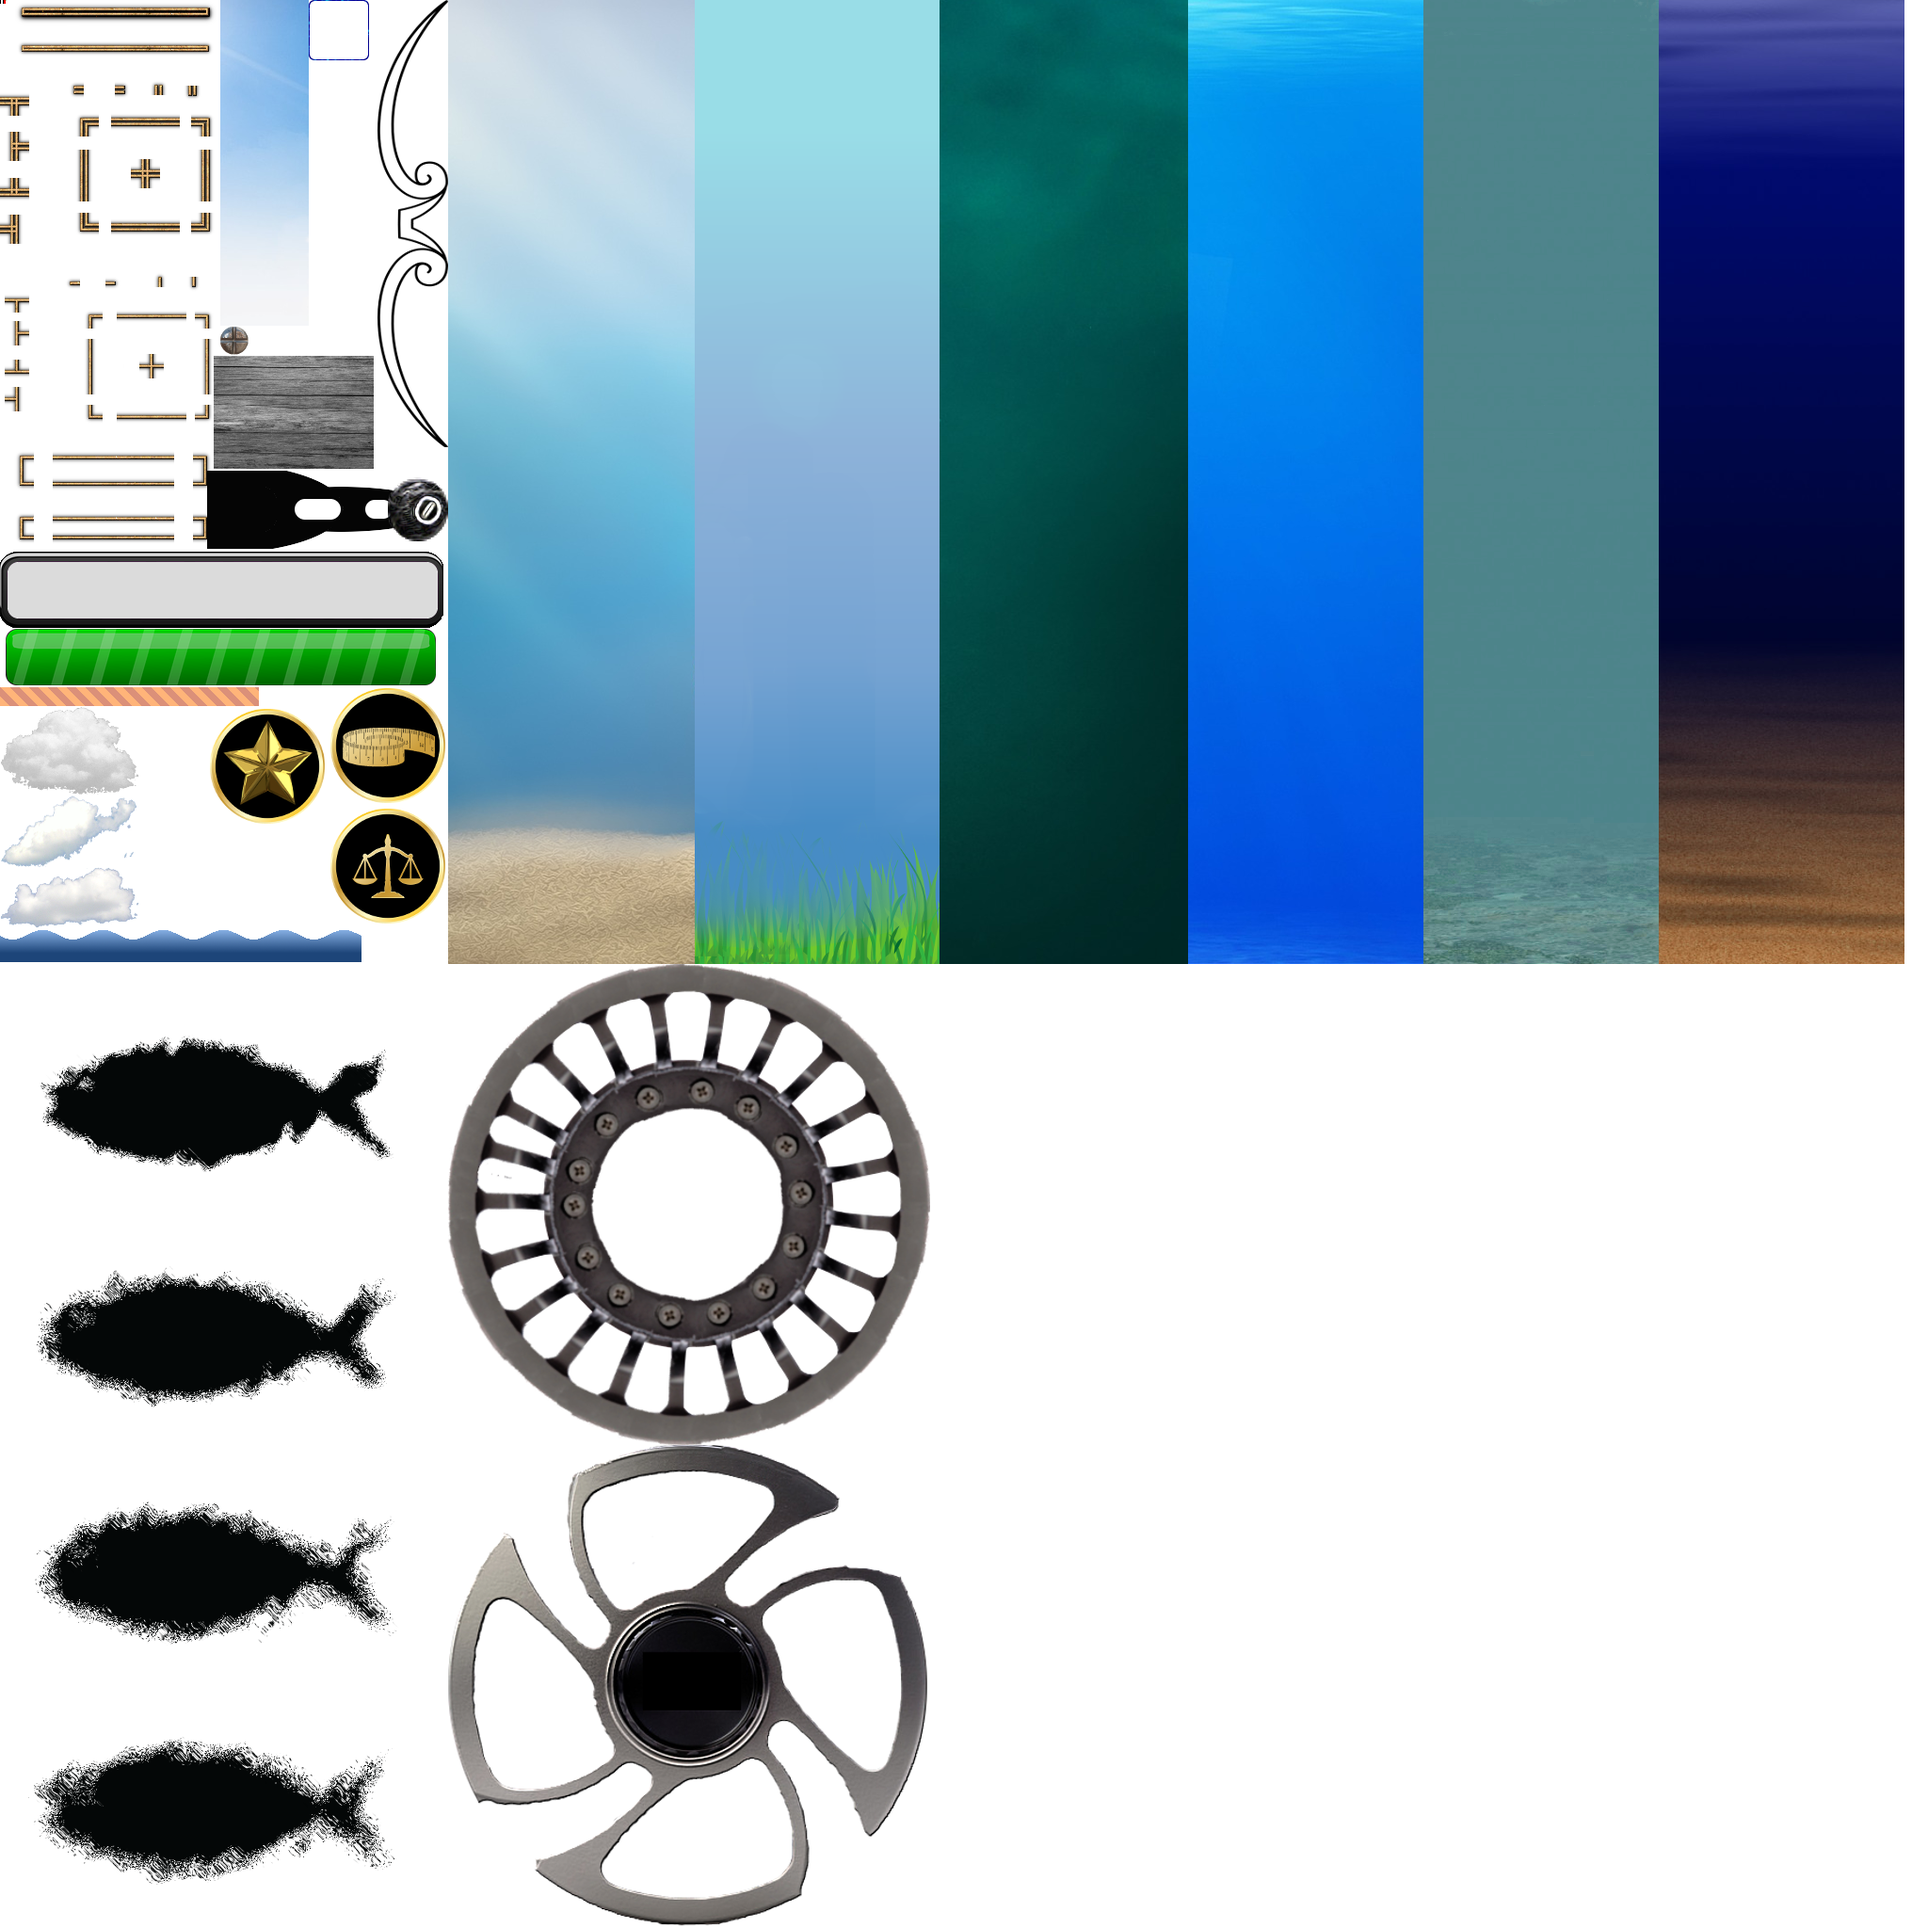
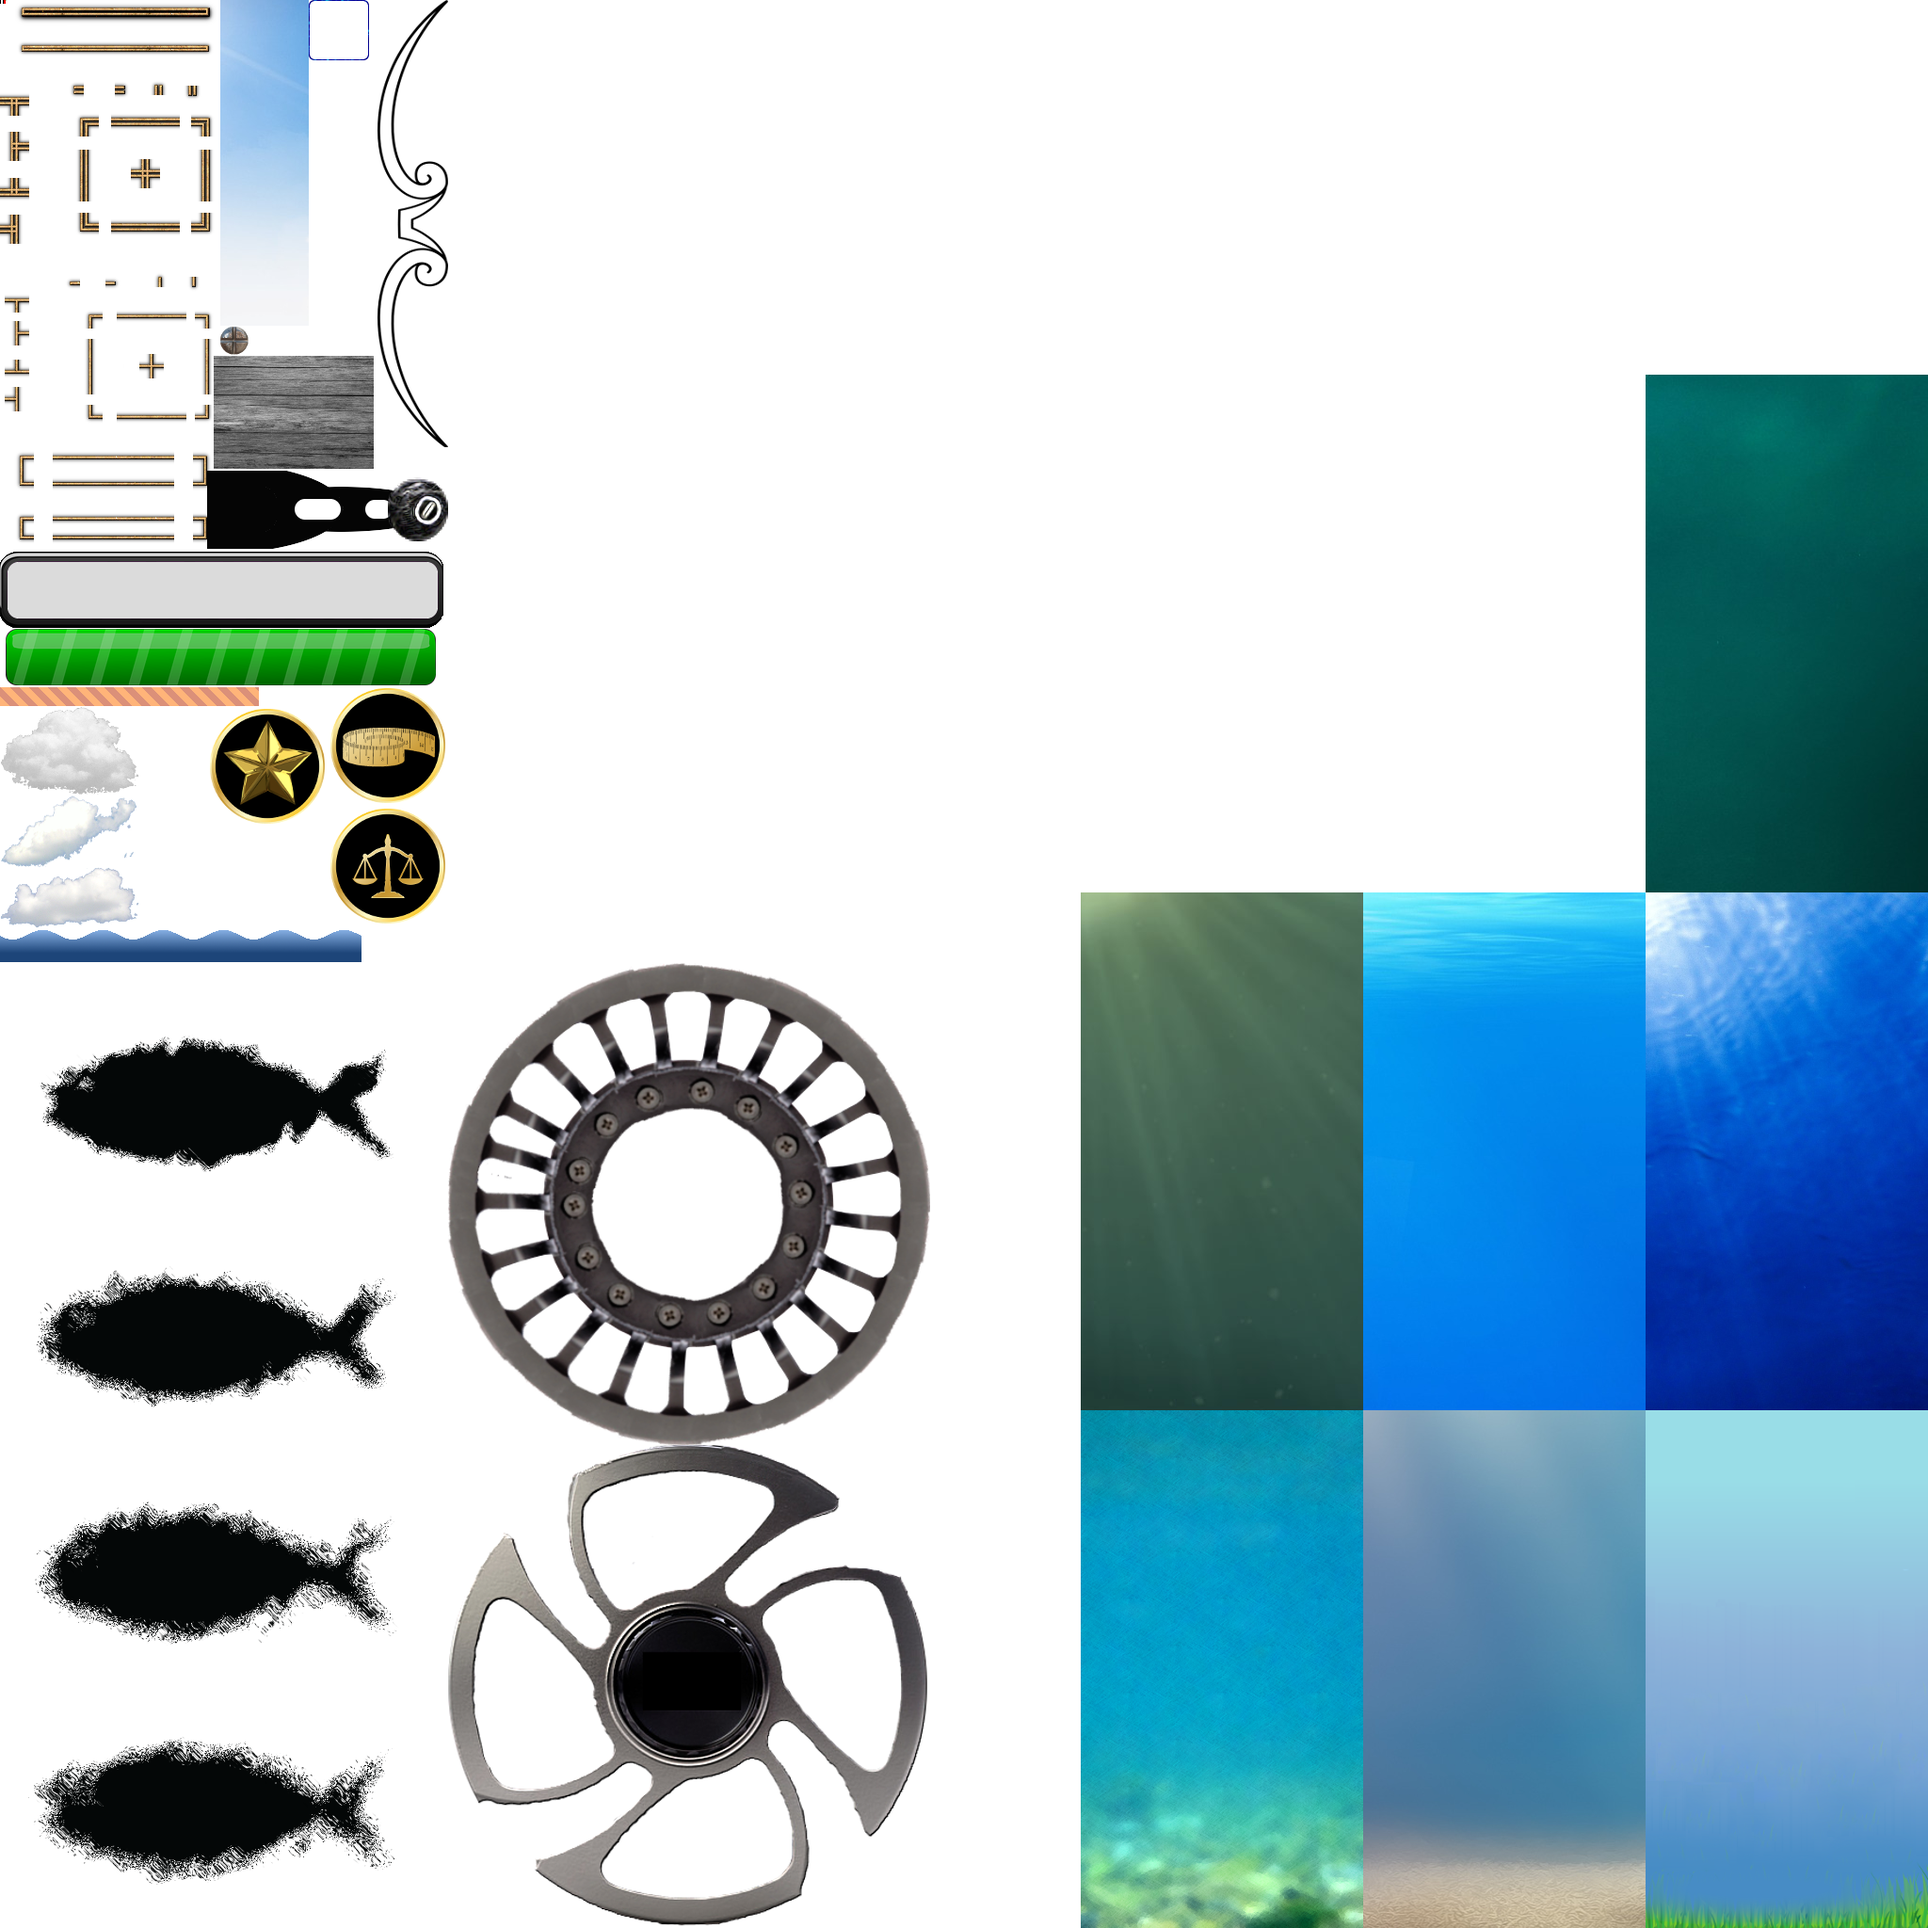
Redid background art for different water types.

diff --git a/FishKing/FishKing/FishKing/Screens/GameScreen.cs b/FishKing/FishKing/FishKing/Screens/GameScreen.cs
@@ -399,7 +399,7 @@ namespace FishKing.Screens
 
         private void AddWaterTiles()
         {
-            var waterNames = new List<string>() { "IsOcean", "IsDeepOcean", "IsLake", "IsRiver", "IsPond", "IsDeepOcean", "IsWaterfall" };
+            var waterNames = new List<string>() { "IsOcean", "IsDeepOcean", "IsLake", "IsCaveLake", "IsRiver", "IsPond", "IsDeepOcean", "IsWaterfall" };
             WaterTiles.AddWaterFrom(CurrentTileMap, (List =>
                 List.Any(item => waterNames.Contains(item.Name))
                 ));

diff --git a/FishKing/FishKing/FishKing/GumRuntimes/FramedCatchingBackgroundRuntime.cs b/FishKing/FishKing/FishKing/GumRuntimes/FramedCatchingBackgroundRuntime.cs
@@ -120,6 +120,7 @@ namespace FishKing.GumRuntimes
                 case WaterType.Pond: this.CurrentWaterTypeBackgroundState = WaterTypeBackground.Pond; break;
                 case WaterType.Ocean: this.CurrentWaterTypeBackgroundState = WaterTypeBackground.Ocean; break;
                 case WaterType.Waterfall: this.CurrentWaterTypeBackgroundState = WaterTypeBackground.Waterfall; break;
+                case WaterType.CaveLake: this.CurrentWaterTypeBackgroundState = WaterTypeBackground.CaveLake; break;
             }
         }
 

diff --git a/FishKing/FishKing/FishKing/Game1.cs b/FishKing/FishKing/FishKing/Game1.cs
@@ -67,7 +67,7 @@ namespace FishKing
 			FlatRedBall.Screens.ScreenManager.Start(typeof(FishKing.Screens.GameScreen));
 
 #if DEBUG
-            var debugVariables = new Entities.DebuggingVariables();
+            //var debugVariables = new Entities.DebuggingVariables();
 #endif
 
             base.Initialize();
